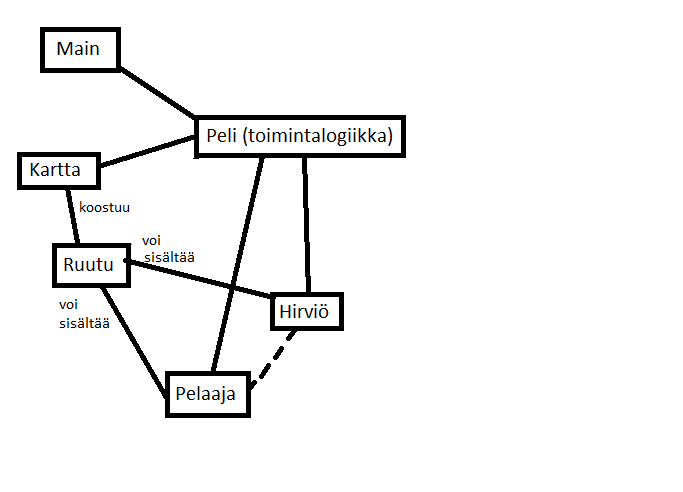
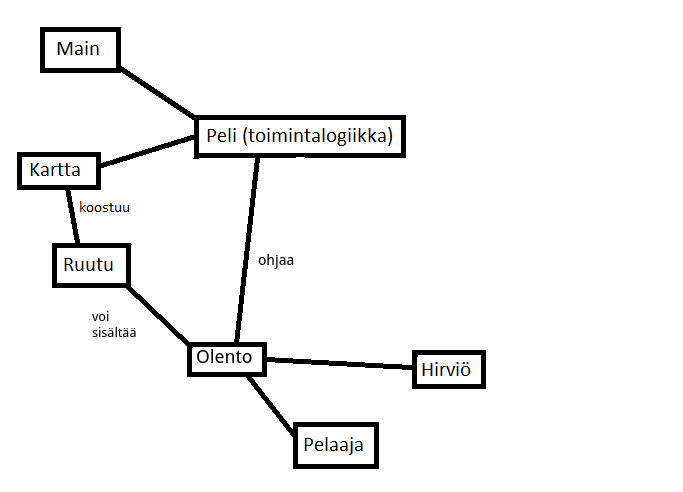
hahmon liikuttelun alkeet lisatty

Changed region(s): [[0.0922, 0.3049, 0.7379, 0.8537], [0.3997, 0.8232, 0.5534, 0.9756], [0.369, 0.3049, 0.3997, 0.3963]]

diff --git a/Ryomija/src/ryomija/Peli.java b/Ryomija/src/ryomija/Peli.java
@@ -2,23 +2,59 @@ package ryomija;
 
 public class Peli {
     private Kartta kartta;
+    private Pelaaja pelaaja;
     
     public void aloita() {
         System.out.println("Seikkailu alkaa!");
-        luoKartta();
-        piirraKartta();
+        alustaPeli();
+        testikierros();
     }
     
-    public void luoKartta() {
+    public void alustaPeli() {
         this.kartta = new Kartta(10, 10);
+        this.pelaaja = new Pelaaja(3, 3, '@');
     }
     
     public void piirraKartta() {
         for (int y = 0; y < this.kartta.getKorkeus(); y++) {
             for (int x = 0; x < this.kartta.getLeveys(); x++) {
-                System.out.print(this.kartta.ruudunSisalto(y, x));
+                Ruutu naytettavaRuutu = this.kartta.etsiRuutu(x, y);
+                System.out.print(naytettavaRuutu.naytaSisalto());
             }
             System.out.println();
         }
+        System.out.println();
+    }
+    
+    public void peliKierros() {
+        while (true) {
+            piirraKartta();
+            //otaKomento();
+        }
+    }
+    
+    public void liikutaHahmoa(int dX, int dY) {
+        // hahmo ei saa liikkua yli ruudun + jonkinlainen virheilmoitus kun ei voi liikkua + mita kay kun tormaa hirvioon
+        if (!this.kartta.etsiRuutu(this.pelaaja.getX() + dX, this.pelaaja.getY() + dY).onkoSeina() 
+            && this.kartta.etsiRuutu(this.pelaaja.getX() + dX, this.pelaaja.getY() + dY).getOlento() == null) {
+            this.kartta.etsiRuutu(this.pelaaja.getX() + dX, this.pelaaja.getY() + dY).asetaOlento(this.pelaaja);
+            this.kartta.etsiRuutu(this.pelaaja.getX(), this.pelaaja.getY()).asetaOlento(null);
+            this.pelaaja.liikuta(dX, dY);
+        }
+    }
+    
+    public void testikierros() {
+        Ruutu alkuRuutu = this.kartta.etsiRuutu(this.pelaaja.getX(), this.pelaaja.getY());
+        alkuRuutu.asetaOlento(this.pelaaja);
+        this.kartta.etsiRuutu(this.pelaaja.getX() + 1, this.pelaaja.getY()).muutaSeinaksi(true);
+        piirraKartta();
+        liikutaHahmoa(0, 1);
+        piirraKartta();
+        liikutaHahmoa(0, -1);
+        piirraKartta();
+        liikutaHahmoa(1, 0);
+        piirraKartta();
+        liikutaHahmoa(-1, 0);
+        piirraKartta();
     }
 }

diff --git a/Ryomija/src/ryomija/Ruutu.java b/Ryomija/src/ryomija/Ruutu.java
@@ -2,6 +2,7 @@ package ryomija;
 
 public class Ruutu {
     boolean seina;
+    Olento olento;
     
     public Ruutu(boolean seina) {
         this.seina = seina;
@@ -9,5 +10,31 @@ public class Ruutu {
     
     public boolean onkoSeina() {
         return this.seina;
+    }
+    
+    public void muutaSeinaksi(boolean seina) {
+        this.seina = seina;
+    }
+    
+    public void asetaOlento(Olento olento) {
+        this.olento = olento;
+    }
+    
+    public void poistaOlento() {
+        this.olento = null;
+    }
+    
+    public Olento getOlento() {
+        return this.olento;
+    }
+    
+    public char naytaSisalto() {
+        if (seina) {
+            return '#';
+        }
+        if (olento == null) {
+            return '.';
+        }
+        return this.olento.getSymboli();
     }
 }

diff --git a/Ryomija/src/ryomija/Kartta.java b/Ryomija/src/ryomija/Kartta.java
@@ -32,7 +32,7 @@ public class Kartta {
         return this.korkeus;
     }
     
-    public Ruutu etsiRuutu(int y, int x) {
+    public Ruutu etsiRuutu(int x, int y) {
         Object rivi = this.kartta.get(y);
         List verrattavaRivi = new ArrayList<Ruutu>();
         
@@ -51,14 +51,5 @@ public class Kartta {
         
         Ruutu oikeaRuutu = (Ruutu) ruutu;
         return oikeaRuutu;
-    }
-    
-    public char ruudunSisalto(int y, int x) {
-        Ruutu ruutu = etsiRuutu(y, x);
-        //lisää tähän virheenkäsittelyä (jos ruutu on null tms)
-        if (ruutu.onkoSeina()) {
-            return '#';
-        }
-        return '.';
     }
 }

diff --git a/Ryomija/src/ryomija/Olento.java b/Ryomija/src/ryomija/Olento.java
@@ -1,0 +1,31 @@
+package ryomija;
+
+
+public class Olento {
+    private int x;
+    private int y;
+    private char symboli;
+    
+    public Olento(int x, int y, char symboli) {
+        this.x = x;
+        this.y = y;
+        this.symboli = symboli;
+    }
+    
+    public int getX() {
+        return this.x;
+    }
+    
+    public int getY() {
+        return this.y;
+    }
+    
+    public char getSymboli() {
+        return this.symboli;
+    }
+    
+    public void liikuta(int dX, int dY) {
+        this.x += dX;
+        this.y += dY;
+    }
+}

diff --git a/Ryomija/src/ryomija/Pelaaja.java b/Ryomija/src/ryomija/Pelaaja.java
@@ -1,0 +1,9 @@
+
+package ryomija;
+
+
+public class Pelaaja extends Olento {
+    public Pelaaja(int x, int y, char symboli) {
+        super(x, y, symboli);
+    }
+}

diff --git a/Ryomija/src/ryomija/Hirvio.java b/Ryomija/src/ryomija/Hirvio.java
@@ -1,0 +1,8 @@
+package ryomija;
+
+public class Hirvio extends Olento{
+    
+    public Hirvio(int x, int y, char symboli) {
+        super(x, y, symboli);
+    }
+}
